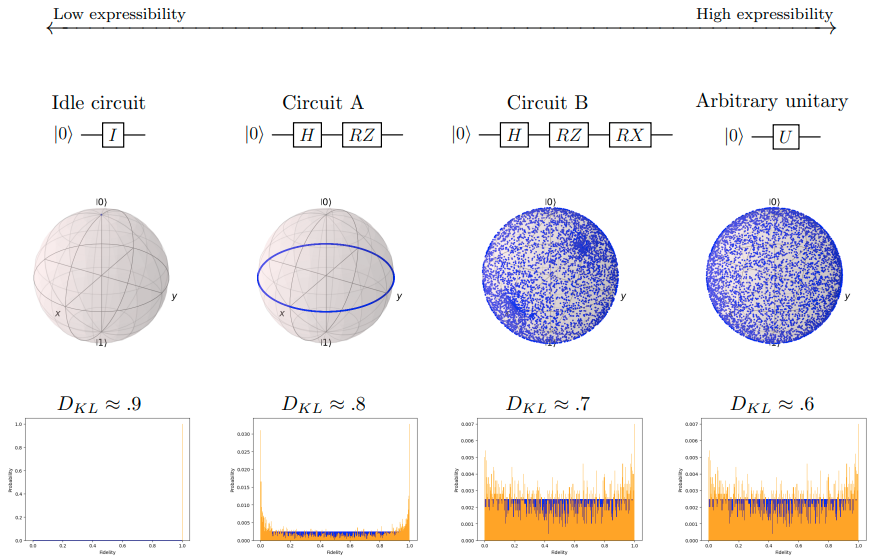
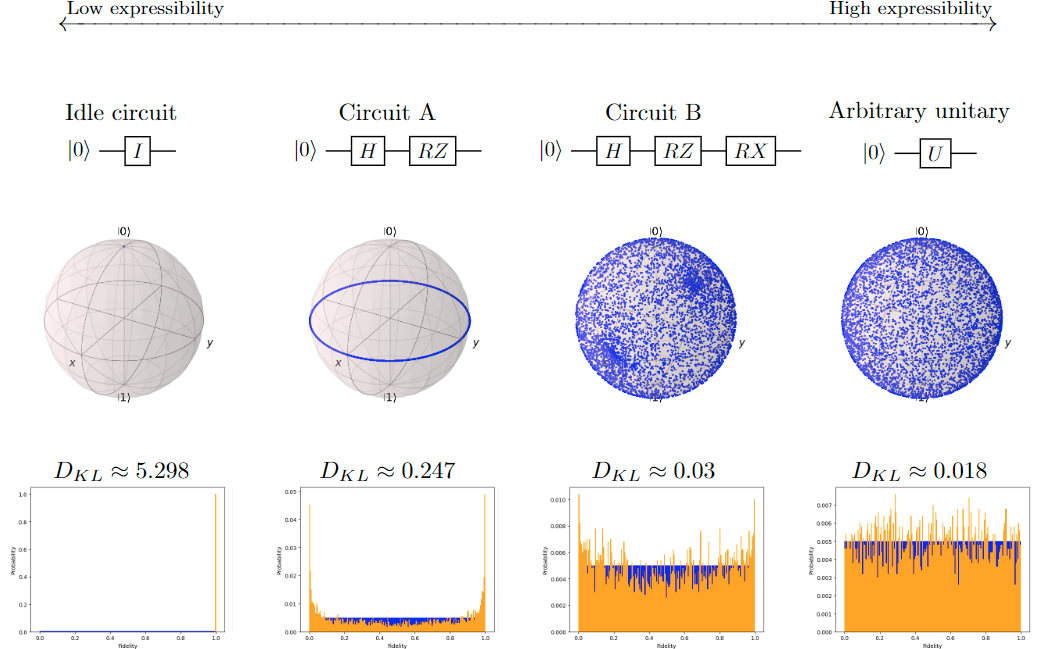
Updated library files

diff --git a/README.md b/README.md
@@ -36,7 +36,7 @@ $$
 \mathcal{E} (C) = D_{KL} (P(C, F) \parallel P_{Haar}(F)) = \int_{0}^{1} P(C, F) \, log \frac{P(C, F)}{P_{Haar}(F)} \,dF
 $$
 
-The following figure shows some single qubit example circuits of increasing expressebility, going from left to right. Note that fixed gates circuits in this configuration has a KL divergence of $(2^n - 1) \ln(n_{bins}) = \ln (1000) \approx 6.908 $.
+The following figure shows some single qubit example circuits of increasing expressebility, going from left to right. Note that fixed gates circuits in this configuration has a KL divergence of $(2^n - 1) \ln(n_{bins}) = \ln (200) \approx 5.298 $.
 
 ![KL divergence.](KLDiv.png)
 
